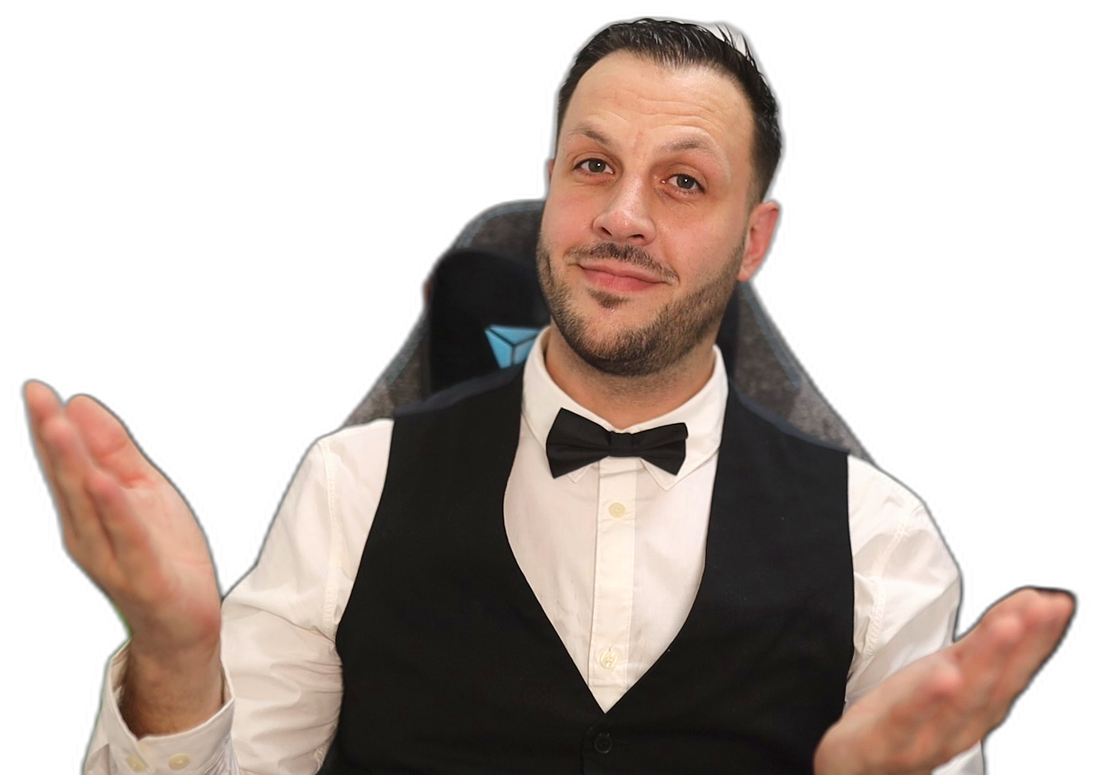
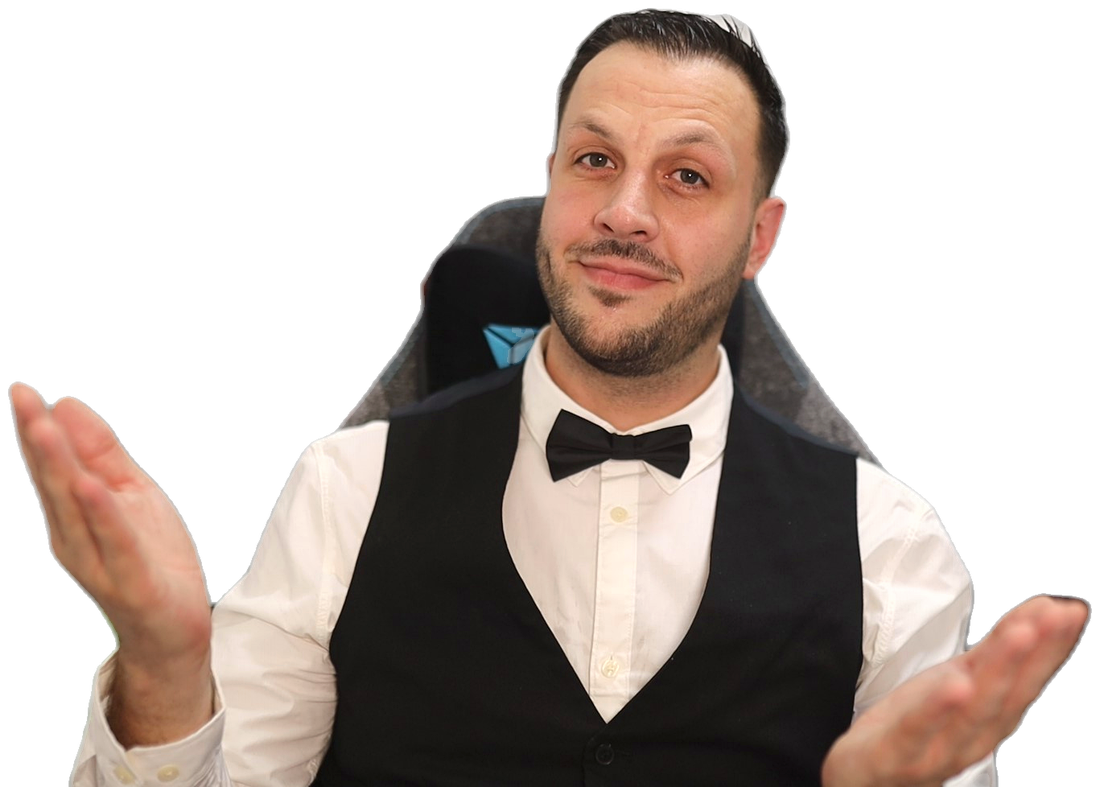
fix(photo): nettoyage des contours (halo mains/cheveux) + halo hero adouci
- Detourage retraite : suppression du voile semi-transparent + erosion 2px
  du contour -> plus de flou autour des mains ni de frange claire sur les cheveux
- Halo derriere la photo de la home : plus discret et descendu (n'eclaire plus la tete)

diff --git a/src/app/page.tsx b/src/app/page.tsx
@@ -109,10 +109,10 @@ export default function Home() {
               aria-hidden
               style={{
                 position: "absolute",
-                inset: "0 0 6% 0",
+                inset: 0,
                 background:
-                  "radial-gradient(58% 56% at 50% 48%, rgba(31,122,82,0.5), rgba(232,176,75,0.12) 52%, transparent 74%)",
-                filter: "blur(6px)",
+                  "radial-gradient(50% 44% at 50% 72%, rgba(31,122,82,0.34), transparent 72%)",
+                filter: "blur(12px)",
               }}
             />
             <Image

diff --git a/scripts/process_photo.py b/scripts/process_photo.py
@@ -1,5 +1,5 @@
-# Détourage + amélioration légère de la photo de Jérôme (100% local).
-from PIL import Image, ImageEnhance
+# Détourage + amélioration + nettoyage des contours (100% local).
+from PIL import Image, ImageEnhance, ImageFilter
 from rembg import remove, new_session
 
 SRC = r"C:\Users\User\Pictures\Camera Roll\WIN_20241022_16_54_57_Pro.jpg"
@@ -8,24 +8,42 @@ OUT = r"C:\Users\User\jeromeibiza-poker\public\jerome-cutout.png"
 img = Image.open(SRC).convert("RGB")
 print("source:", img.size)
 
-# Amélioration naturelle (subtile, on ne dénature pas).
+# Amélioration naturelle (subtile).
 img = ImageEnhance.Brightness(img).enhance(1.05)
 img = ImageEnhance.Contrast(img).enhance(1.08)
 img = ImageEnhance.Color(img).enhance(1.07)
 img = ImageEnhance.Sharpness(img).enhance(1.25)
 
-# Détourage avec le modèle de segmentation humaine.
+# Détourage (segmentation humaine).
 session = new_session("u2net_human_seg")
-out = remove(img, session=session)  # RGBA avec fond transparent
+out = remove(img, session=session).convert("RGBA")
 
-# Rognage sur le sujet (bounding box de l'alpha) + petite marge.
+# --- Nettoyage du contour pour supprimer le halo/flou ---
+r, g, b, a = out.split()
+# 1) Tuer le voile semi-transparent (la "frange" lumineuse autour des mains/cheveux).
+a = a.point(lambda v: 0 if v < 55 else v)
+# 2) Eroder le bord d'env. 2px pour rentrer sous la frange et la rim-light des cheveux.
+a = a.filter(ImageFilter.MinFilter(5))
+# 3) Anti-aliasing leger pour un bord net mais pas cranté.
+a = a.filter(ImageFilter.GaussianBlur(0.6))
+# 4) Re-durcir legerement le bord (evite un contour trop mou).
+a = a.point(lambda v: 0 if v < 45 else (255 if v > 205 else v))
+out = Image.merge("RGBA", (r, g, b, a))
+
+# Rognage sur le sujet + petite marge.
 bbox = out.getbbox()
 if bbox:
-    pad = 12
-    l, t, r, b = bbox
+    pad = 10
+    l, t, rr, bb = bbox
     l = max(0, l - pad); t = max(0, t - pad)
-    r = min(out.width, r + pad); b = min(out.height, b + pad)
-    out = out.crop((l, t, r, b))
+    rr = min(out.width, rr + pad); bb = min(out.height, bb + pad)
+    out = out.crop((l, t, rr, bb))
 
-out.save(OUT)
+# Optimisation web (largeur max 1100).
+maxw = 1100
+if out.width > maxw:
+    h = round(out.height * maxw / out.width)
+    out = out.resize((maxw, h), Image.LANCZOS)
+
+out.save(OUT, optimize=True)
 print("saved:", OUT, out.size)